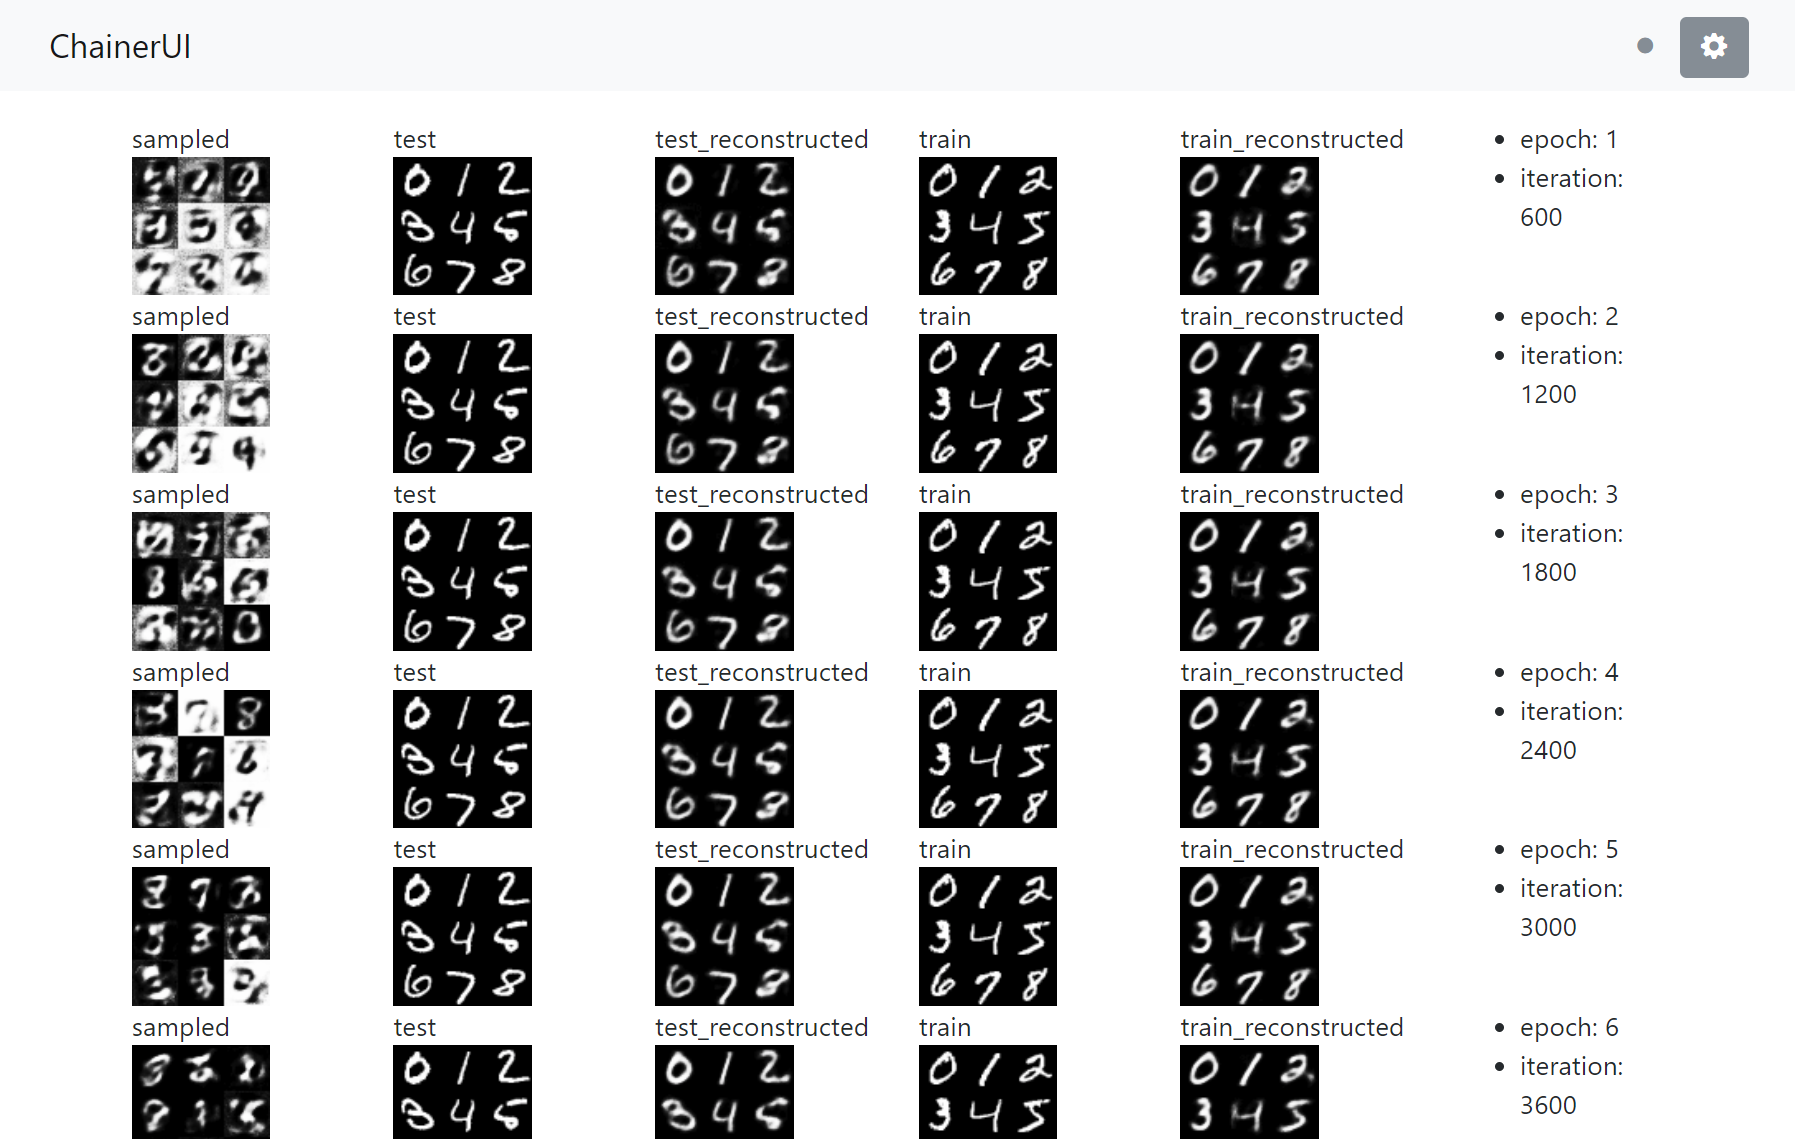
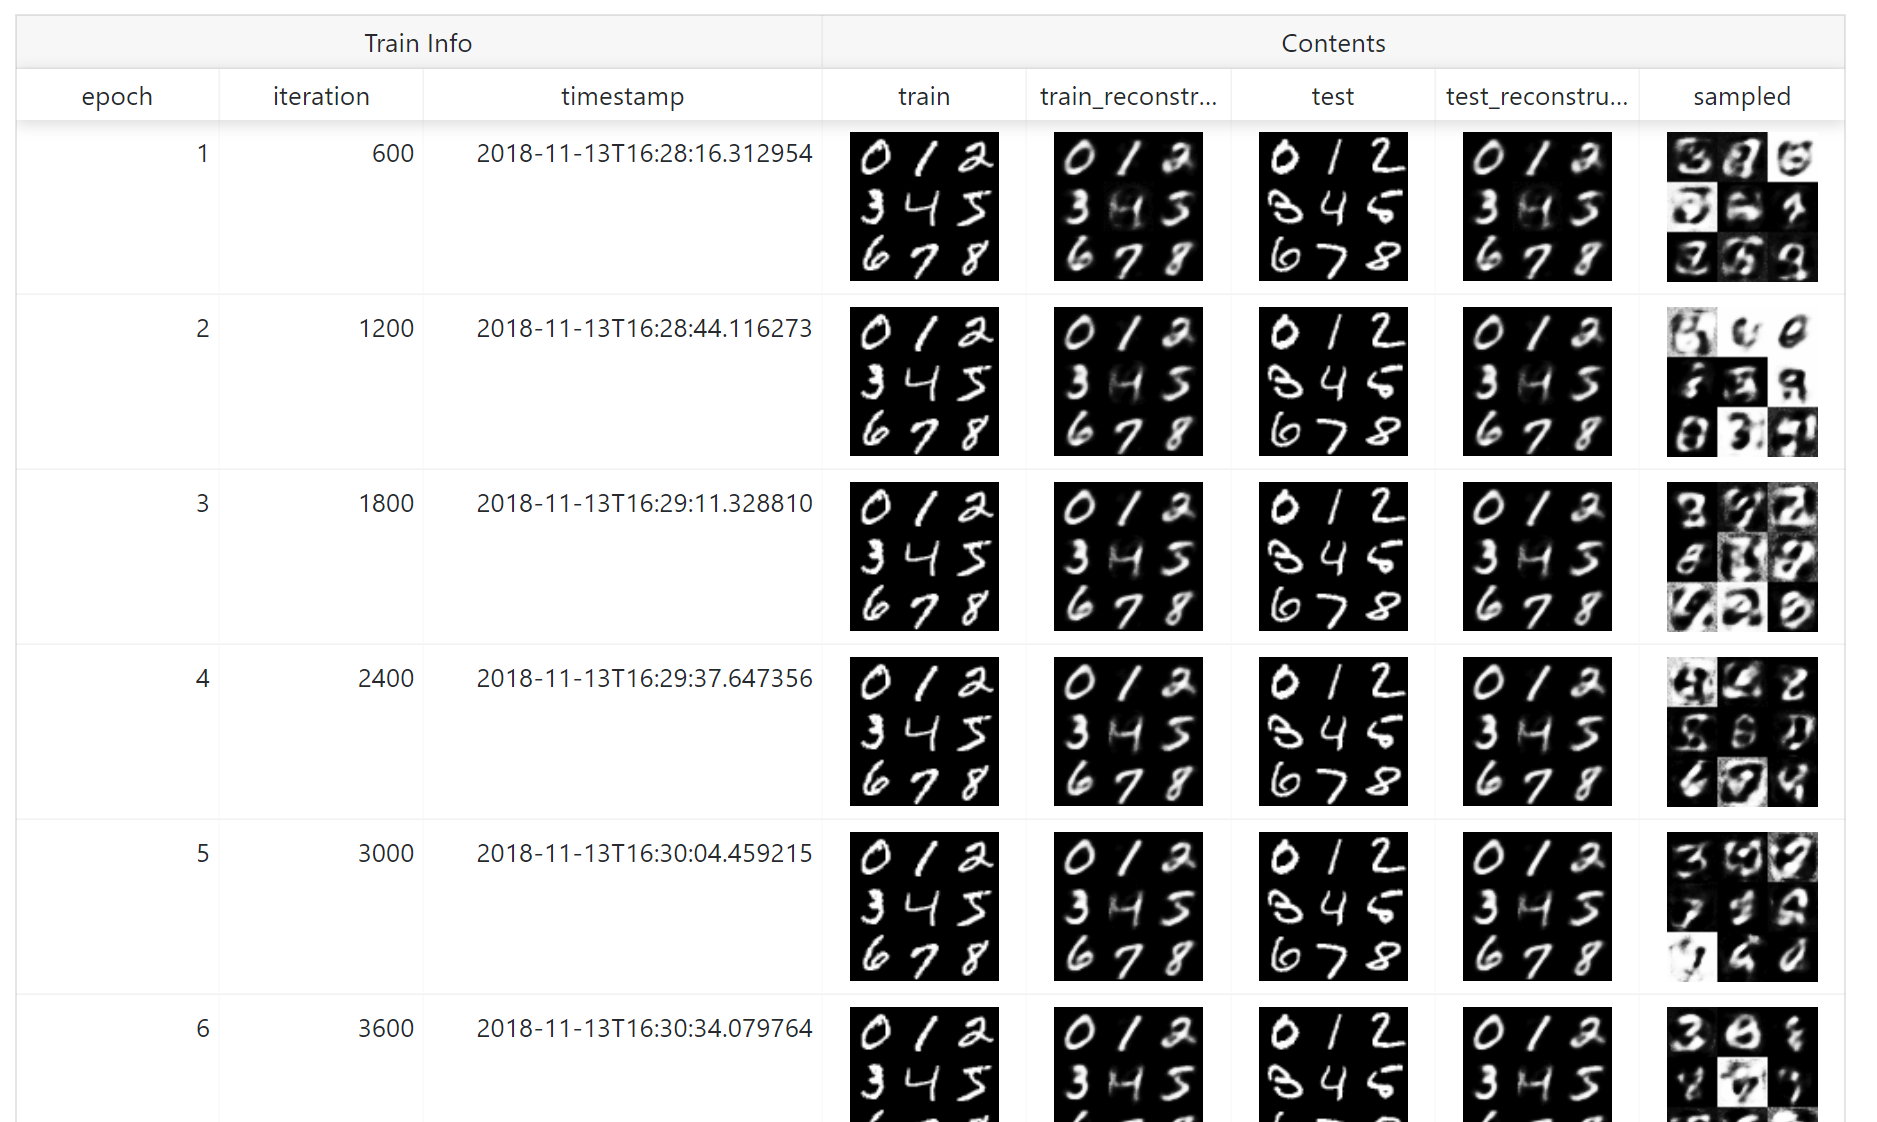
fix readme

diff --git a/vae/README.md b/vae/README.md
@@ -6,8 +6,6 @@ original code: [chainerui/examples](https://github.com/chainer/chainerui/tree/ma
 $ chainerui project create -d results -n vae-mnist
 ```
 
-**Please use [support grayscale branch](https://github.com/disktnk/chainerui/tree/fix/image-api-gray)**, this patch will be merged.
-
 ```bash
 $ python train_vae.py -o results/demo -g 0
 ```
@@ -23,30 +21,34 @@ def main()
     # ...(snip)
     # [chainerui] add extension with visualizer
     #             collect latest image from cache area
-    def visualize(trainer):
+    @chainer.training.make_extension()
+    def out_generated_image(trainer):
         train_ind = [1, 3, 5, 10, 2, 0, 13, 15, 17]
         x = chainer.Variable(np.asarray(train[train_ind]))
         with chainer.using_config('train', False), chainer.no_backprop_mode():
             x1 = model(x)
-        def convert(x):
-            return x.reshape(9, 28, 28).transpose(0, 2, 1)
-        summary.image(convert(x), name='train', row=3)
-        summary.image(convert(x1), name='train_reconstructed', row=3)
 
         test_ind = [3, 2, 1, 18, 4, 8, 11, 17, 61]
-        x = chainer.Variable(np.asarray(test[test_ind]))
+        x_test = chainer.Variable(np.asarray(test[test_ind]))
         with chainer.using_config('train', False), chainer.no_backprop_mode():
-            x1 = model(x)
-        summary.image(convert(x), name='test', row=3)
-        summary.image(convert(x1), name='test_reconstructed', row=3)
+            x1_test = model(x)
 
         # draw images from randomly sampled z
         z = chainer.Variable(
             np.random.normal(0, 1, (9, args.dimz)).astype(np.float32))
-        x = model.decode(z)
-        summary.image(convert(x), name='sampled', row=3)
+        x_sampled = model.decode(z)
 
-    trainer.extend(ImageReport(image_generator=visualize))
+        epoch = trainer.updater.epoch
+        iteration = trainer.updater.iteration
+        with summary.reporter(args.out, epoch=epoch, iteration=iteration) as r:
+            r.image(x.reshape(len(train_ind), 28, 28), 'train', row=3)
+            r.image(x1.reshape(len(train_ind), 28, 28), 'train_reconstructed',
+                    row=3)
+            r.image(x_test.reshape(len(test_ind), 28, 28), 'test', row=3)
+            r.image(x1_test.reshape(len(test_ind), 28, 28),
+                    'test_reconstructed', row=3)
+            r.image(x_sampled.reshape(9, 28, 28), 'sampled', row=3)
+    trainer.extend(out_generated_image, trigger=(1, 'epoch'))
 ```
 
 on ChainerUI:
